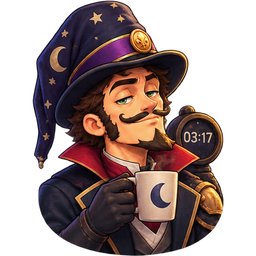
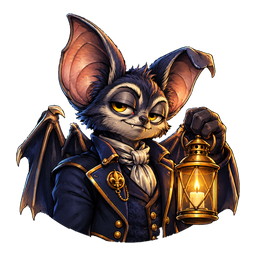
Avatares: retira Lupa, Pipa y Reloj de arena; Pulpo, Carnero y Murciélago sustituyen a tres SirEdwards
Selector de 18 a 15 (8 base + 7 de logro). Los id avatar_siredwards_coleccionista, _imparable y _medianoche
se conservan con arte nuevo (Pulpo Archivero, Carnero de la Racha, Murciélago Noctámbulo). El logro
streak_30 pasa a titularse «Imparable». Nuevo orden de los avatares de logro. Fecha de la entrada 2.3 del
historial: 16/10/2026. CACHE_VERSION 325. Copia del Worker sincronizada (solo cambia el orden).

Claude-Session: https://claude.ai/code/session_0183Zx9L9B2guvX69Av6TVYS

diff --git a/index.html b/index.html
@@ -49,19 +49,19 @@
 <!-- Tipografía: Playfair Display para el "display" institucional (nombre de la
      app / títulos), Inter para toda la interfaz funcional. Alojadas en la propia app
      (styles/fonts.css, assets/fonts/): funcionan sin conexión y no dependen de Google. -->
-<link rel="stylesheet" href="styles/fonts.css?v=323">
+<link rel="stylesheet" href="styles/fonts.css?v=325">
 <link rel="preload" href="assets/fonts/inter-latin.woff" as="font" type="font/woff" crossorigin>
-<link rel="stylesheet" href="styles/main.css?v=323">
+<link rel="stylesheet" href="styles/main.css?v=325">
 <!-- v1.4: estilos de la capa online (cuenta, migración, ranking). Solo clases .seq-* -->
-<link rel="stylesheet" href="styles/online.css?v=323">
-<link rel="stylesheet" href="styles/results-frame.css?v=323">
-<link rel="stylesheet" href="styles/visual-2-3.css?v=323">
-<link rel="stylesheet" href="styles/light-refresh.css?v=323">
-<link rel="stylesheet" href="styles/encargos.css?v=323">
-<link rel="stylesheet" href="styles/encargos-intro.css?v=323">
-<link rel="stylesheet" href="styles/sir-events.css?v=323">
-<link rel="stylesheet" href="styles/theme.css?v=323">
-<link rel="stylesheet" href="styles/privacy.css?v=323">
+<link rel="stylesheet" href="styles/online.css?v=325">
+<link rel="stylesheet" href="styles/results-frame.css?v=325">
+<link rel="stylesheet" href="styles/visual-2-3.css?v=325">
+<link rel="stylesheet" href="styles/light-refresh.css?v=325">
+<link rel="stylesheet" href="styles/encargos.css?v=325">
+<link rel="stylesheet" href="styles/encargos-intro.css?v=325">
+<link rel="stylesheet" href="styles/sir-events.css?v=325">
+<link rel="stylesheet" href="styles/theme.css?v=325">
+<link rel="stylesheet" href="styles/privacy.css?v=325">
 
 </head>
 <body class="on-home">
@@ -1111,7 +1111,7 @@ try {
           <div class="settings-changelog-entry" data-recap="Cálculo en dos velocidades y un aspecto por fin a la altura. Sir Edwards no admite medias tintas.">
             <div class="settings-changelog-entry-header">
               <span class="settings-changelog-entry-version">v2.3</span>
-              <span class="settings-changelog-entry-date">14/10/2026</span>
+              <span class="settings-changelog-entry-date">16/10/2026</span>
             </div>
             <ul class="settings-changelog-list">
               <li>Cálculo mental en dos modos: Turbo, el de siempre, y Fondo, con una sola vida.</li>
@@ -1136,55 +1136,55 @@ try {
 <!-- Fase 2: datos y constantes extraidos a modulos, cargados como scripts
      clasicos (no ES Modules) para conservar el scope global compartido con
      el script principal, sin convertir todavia la app a ES Modules. -->
-<script src="src/data/ui-maps.js?v=323"></script>
-<script src="src/data/questions.js?v=323"></script>
-<script src="src/data/questions-retired.js?v=323"></script>
-<script src="src/data/phrases.js?v=323"></script>
-<script src="src/data/duel-phrases.js?v=323"></script>
-<script src="src/data/lucidez.js?v=323"></script>
-<script src="src/data/medals.js?v=323"></script>
+<script src="src/data/ui-maps.js?v=325"></script>
+<script src="src/data/questions.js?v=325"></script>
+<script src="src/data/questions-retired.js?v=325"></script>
+<script src="src/data/phrases.js?v=325"></script>
+<script src="src/data/duel-phrases.js?v=325"></script>
+<script src="src/data/lucidez.js?v=325"></script>
+<script src="src/data/medals.js?v=325"></script>
 <!-- Prompt 3 — Fase C: sistema de avatares compartido (window.SEQAvatars). Debe
      cargarse antes de src/online/online.js y src/online/duels.js: ambos lo
      consumen en vez de mantener cada uno su propia copia de la lista. -->
-<script src="src/data/avatars.js?v=323"></script>
-<script src="src/share/share-card.js?v=323"></script>
+<script src="src/data/avatars.js?v=325"></script>
+<script src="src/share/share-card.js?v=325"></script>
 
 <!-- Fase 3 (Lote 3A): motor de coincidencia de respuestas extraido a
      src/utils/matching.js, mismo criterio que la Fase 2 (script clasico,
      sin ES Modules todavia). -->
-<script src="src/utils/matching.js?v=323"></script>
-<script src="src/utils/answer-alias.js?v=323"></script>
-<script src="src/utils/lucidez-select.js?v=323"></script>
-<script src="src/state/lucidez-bag.js?v=323"></script>
-<script src="src/state/timetrial-bag.js?v=323"></script>
-<script src="src/utils/encargos-core.js?v=323"></script>
-<script src="src/utils/encargos-progress.js?v=323"></script>
-<script src="src/state/encargos.js?v=323"></script>
-<script src="src/data/encargos-phrases.js?v=323"></script>
-<script src="src/ui/encargos-ui.js?v=323"></script>
-<script src="src/data/named-phrases.js?v=323"></script>
-<script src="src/utils/named-phrases.js?v=323"></script>
-<script src="src/utils/encargos-intro-core.js?v=323"></script>
-<script src="src/data/encargos-intro-phrases.js?v=323"></script>
-<script src="src/ui/encargos-intro.js?v=323"></script>
-<script src="src/data/home-quotes.js?v=323"></script>
-<script src="src/ui/home-quote.js?v=323"></script>
-<script src="src/utils/sir-events.js?v=323"></script>
-<script src="src/ui/sir-events-ui.js?v=323"></script>
-<script src="src/state/sir-events.js?v=323"></script>
-<script src="src/utils/sudden-progression.js?v=323"></script>
-<script src="src/utils/mental-calc.js?v=323"></script>
-<script src="src/utils/mental-classic.js?v=323"></script>
-<script src="src/ui/mental-classic-ui.js?v=323"></script>
-<script src="src/ui/mental-menu.js?v=323"></script>
-<script src="src/ui/level-up.js?v=323"></script>
+<script src="src/utils/matching.js?v=325"></script>
+<script src="src/utils/answer-alias.js?v=325"></script>
+<script src="src/utils/lucidez-select.js?v=325"></script>
+<script src="src/state/lucidez-bag.js?v=325"></script>
+<script src="src/state/timetrial-bag.js?v=325"></script>
+<script src="src/utils/encargos-core.js?v=325"></script>
+<script src="src/utils/encargos-progress.js?v=325"></script>
+<script src="src/state/encargos.js?v=325"></script>
+<script src="src/data/encargos-phrases.js?v=325"></script>
+<script src="src/ui/encargos-ui.js?v=325"></script>
+<script src="src/data/named-phrases.js?v=325"></script>
+<script src="src/utils/named-phrases.js?v=325"></script>
+<script src="src/utils/encargos-intro-core.js?v=325"></script>
+<script src="src/data/encargos-intro-phrases.js?v=325"></script>
+<script src="src/ui/encargos-intro.js?v=325"></script>
+<script src="src/data/home-quotes.js?v=325"></script>
+<script src="src/ui/home-quote.js?v=325"></script>
+<script src="src/utils/sir-events.js?v=325"></script>
+<script src="src/ui/sir-events-ui.js?v=325"></script>
+<script src="src/state/sir-events.js?v=325"></script>
+<script src="src/utils/sudden-progression.js?v=325"></script>
+<script src="src/utils/mental-calc.js?v=325"></script>
+<script src="src/utils/mental-classic.js?v=325"></script>
+<script src="src/ui/mental-classic-ui.js?v=325"></script>
+<script src="src/ui/mental-menu.js?v=325"></script>
+<script src="src/ui/level-up.js?v=325"></script>
 
 <!-- Fase 3 (Lote 3B): nucleo algoritmico de Duelo extraido a
      src/utils/duel.js, mismo criterio que el resto (script clasico, sin
      ES Modules todavia). Las dependencias compartidas con otros modos
      (arrangeStandardBlock, generateLucidezMentalOp)
      permanecen en este script principal, sin moverse en este lote. -->
-<script src="src/utils/duel.js?v=323"></script>
+<script src="src/utils/duel.js?v=325"></script>
 
 <!-- Fase 3 (Lote 3C): defaults, migracion y saneamiento del Store
      extraidos a src/utils/store.js, mismo criterio que el resto (script
@@ -1196,54 +1196,54 @@ try {
      getLevelData) y las 8 funciones de persistencia real (loadStore,
      saveStore, exportProgress...) permanecen en este script principal,
      sin moverse en este lote. -->
-<script src="src/utils/store.js?v=323"></script>
+<script src="src/utils/store.js?v=325"></script>
 
 <!-- Fase 4B: fachada de estado de solo lectura (getStore/getCurrentGame),
      mismo criterio que el resto (script clasico, sin ES Modules todavia).
      No copia, no transforma, no cachea. Ver src/state/read-facade.js. -->
-<script src="src/state/read-facade.js?v=323"></script>
+<script src="src/state/read-facade.js?v=325"></script>
 
-<script src="src/utils/streak-xp.js?v=323"></script>
+<script src="src/utils/streak-xp.js?v=325"></script>
 <!-- Fase 4C: helpers minimos de escritura (pushCapped, resetStreak) para
      eliminar 2 duplicaciones reales concretas -- no un sistema de
      mutaciones. Ver src/state/write-helpers.js y CHANGELOG_FASE4C.md. -->
-<script src="src/state/write-helpers.js?v=323"></script>
+<script src="src/state/write-helpers.js?v=325"></script>
 
 <!-- v1.4: capa online (cuenta Google, sincronización, migración, ranking).
      config.js es PÚBLICO (URL del Worker + Client ID de Google); si está
      vacío, la capa online queda desactivada y la app es idéntica a la v1.3.
      online.js solo usa el store/funciones del juego en tiempo de ejecución. -->
-<script src="src/ui/install-app.js?v=323"></script>
-<script src="src/ui/privacy.js?v=323"></script>
-<script src="src/ui/a11y.js?v=323"></script>
-<script src="src/ui/back-nav.js?v=323"></script>
-<script src="src/ui/game-fx.js?v=323"></script>
-<script src="src/ui/last-life.js?v=323"></script>
-<script src="src/ui/hitos.js?v=323"></script>
-<script src="src/ui/achievements.js?v=323"></script>
-<script src="src/ui/stats-extra.js?v=323"></script>
-<script src="src/ui/name-prompt.js?v=323"></script>
-<script src="src/ui/intro.js?v=323"></script>
-<script src="src/ui/mode-badges.js?v=323"></script>
-<script src="src/ui/lucidez-ui.js?v=323"></script>
-<script src="src/ui/sabias.js?v=323"></script>
-<script src="src/ui/icons.js?v=323"></script>
-<script src="src/online/config.js?v=323"></script>
+<script src="src/ui/install-app.js?v=325"></script>
+<script src="src/ui/privacy.js?v=325"></script>
+<script src="src/ui/a11y.js?v=325"></script>
+<script src="src/ui/back-nav.js?v=325"></script>
+<script src="src/ui/game-fx.js?v=325"></script>
+<script src="src/ui/last-life.js?v=325"></script>
+<script src="src/ui/hitos.js?v=325"></script>
+<script src="src/ui/achievements.js?v=325"></script>
+<script src="src/ui/stats-extra.js?v=325"></script>
+<script src="src/ui/name-prompt.js?v=325"></script>
+<script src="src/ui/intro.js?v=325"></script>
+<script src="src/ui/mode-badges.js?v=325"></script>
+<script src="src/ui/lucidez-ui.js?v=325"></script>
+<script src="src/ui/sabias.js?v=325"></script>
+<script src="src/ui/icons.js?v=325"></script>
+<script src="src/online/config.js?v=325"></script>
 <!-- v2.0: combinación de datos de jugador (mismo código que el servidor) y su sincronización -->
-<script src="src/utils/sync-merge.js?v=323"></script>
-<script src="src/online/data-sync.js?v=323"></script>
-<script src="src/online/online.js?v=323"></script>
+<script src="src/utils/sync-merge.js?v=325"></script>
+<script src="src/online/data-sync.js?v=325"></script>
+<script src="src/online/online.js?v=325"></script>
 <!-- v1.5: Amigos, Duelo online y Retos. El servidor decide preguntas, tiempo, aciertos y ganador. -->
-<script src="src/state/result-heard.js?v=323"></script>
-<script src="src/online/duels.js?v=323"></script>
+<script src="src/state/result-heard.js?v=325"></script>
+<script src="src/online/duels.js?v=325"></script>
 <!-- 2.1: Duelo por apuestas, ELO PvP, Rankings y estadísticas de Duelos (solo presentación; decide el servidor) -->
-<script src="src/online/duels-v21.js?v=323"></script>
+<script src="src/online/duels-v21.js?v=325"></script>
 <!-- 2.3: ficha pública de un jugador (resumen, récords, PvP y solicitud de amistad) -->
-<script src="src/online/player-profile.js?v=323"></script>
-<script src="src/online/inbox.js?v=323"></script>
-<script src="src/online/push.js?v=323"></script>
+<script src="src/online/player-profile.js?v=325"></script>
+<script src="src/online/inbox.js?v=325"></script>
+<script src="src/online/push.js?v=325"></script>
 <!-- Audio: sonidos del juego (src/audio/audio.js) -->
-<script src="src/audio/audio.js?v=323"></script>
+<script src="src/audio/audio.js?v=325"></script>
 
 <script>
 function closeWelcomeModal() {
@@ -7284,6 +7284,6 @@ window.addEventListener('appinstalled', () => {
   hidePwaHint();
 });
 </script>
-<script src="src/ui/resume-clock.js?v=323"></script>
+<script src="src/ui/resume-clock.js?v=325"></script>
 </body>
 </html>

diff --git a/src/data/avatars.js b/src/data/avatars.js
@@ -35,7 +35,9 @@
 
   var ASSET_DIR = 'assets/avatars/';
 
-  // 11 emblemas base (los originales + Gato, Pipa, Caballo, Reloj de arena, Sello de lacre y Gramófono) y 7 de logro (el backend los acepta desde su lista AVATARS).
+  // 8 emblemas base (Sombrero, Compendio, Reloj, Máscara, Gato, Caballo, Sello de lacre y Gramófono) y 7 de logro (el backend los acepta desde su lista AVATARS).
+  // Lupa, Pipa y Reloj de arena se retiraron del selector (nadie los usaba). Sus id siguen siendo válidos en el Worker
+  // (LEGACY_AVATARS de gen-constants.mjs) y, si alguien los tuviera guardados, resolveGlyph() los muestra como Sombrero.
   // Los emblemas base — todos disponibles desde el inicio, sin logros, sin
   // tienda (Nivel 1 del sistema, ver ficha de dirección artística cerrada).
   // "value" es lo que se guarda/envía como avatar del jugador.
@@ -43,23 +45,22 @@
     { id: 'sombrero', value: 'sombrero', short: 'Sombrero', src: ASSET_DIR + 'sombrero.png', label: 'Sombrero de Sir Edwards', base: true },
     { id: 'libro', value: 'libro', short: 'Compendio', src: ASSET_DIR + 'libro.png', label: 'El Compendio', base: true },
     { id: 'reloj', value: 'reloj', short: 'Reloj', src: ASSET_DIR + 'reloj.png', label: 'Reloj de bolsillo', base: true },
-    { id: 'lupa', value: 'lupa', short: 'Lupa', src: ASSET_DIR + 'lupa.png', label: 'Lupa', base: true },
     { id: 'mascara', value: 'mascara', short: 'Máscara', src: ASSET_DIR + 'mascara.png', label: 'Máscara', base: true },
     { id: 'gato', value: 'gato', short: 'Gato', src: ASSET_DIR + 'gato.png', label: 'Gato con chistera', base: true },
-    { id: 'pipa', value: 'pipa', short: 'Pipa', src: ASSET_DIR + 'pipa.png', label: 'Pipa', base: true },
     { id: 'caballo', value: 'caballo', short: 'Caballo', src: ASSET_DIR + 'caballo.png', label: 'Caballo de ajedrez', base: true },
-    { id: 'reloj_arena', value: 'reloj_arena', short: 'Arena', src: ASSET_DIR + 'reloj_arena.png', label: 'Reloj de arena', base: true },
     { id: 'sello', value: 'sello', short: 'Sello', src: ASSET_DIR + 'sello.png', label: 'Sello de lacre', base: true },
     { id: 'gramofono', value: 'gramofono', short: 'Gramófono', src: ASSET_DIR + 'gramofono.png', label: 'Gramófono', base: true },
+    // Los id avatar_siredwards_coleccionista, _imparable y _medianoche se CONSERVAN (están guardados en perfiles y el Worker los valida),
+    // pero su arte es ahora el Pulpo Archivero, el Carnero de la Racha y el Murciélago Noctámbulo: personajes propios en vez de más variantes de Sir Edwards.
     // 2.1: avatares que se GANAN con un logro (`medal` = ID del logro; la recompensa se define en MEDAL_REWARDS, medals.js).
     // El servidor solo deja elegirlos a quien tiene el logro. Cualquiera los VE en el perfil de otro jugador.
-    { id: 'avatar_siredwards_coleccionista', value: 'avatar_siredwards_coleccionista', short: 'Coleccionista', src: ASSET_DIR + 'avatar_siredwards_coleccionista.png', label: 'SirEdwards Coleccionista', base: false, medal: 'medal_collector_30' },
-    { id: 'avatar_siredwards_vengador', value: 'avatar_siredwards_vengador', short: 'Vengador', src: ASSET_DIR + 'avatar_siredwards_vengador.png', label: 'SirEdwards Vengador', base: false, medal: 'duel_revancha' },
-    { id: 'avatar_siredwards_imparable', value: 'avatar_siredwards_imparable', short: 'Imparable', src: ASSET_DIR + 'avatar_siredwards_imparable.png', label: 'SirEdwards Imparable', base: false, medal: 'streak_30' },
-    { id: 'avatar_siredwards_insensato', value: 'avatar_siredwards_insensato', short: 'Insensato', src: ASSET_DIR + 'avatar_siredwards_insensato.png', label: 'SirEdwards Insensato', base: false, medal: 'duel_apuestas_ultima_locura' },
-    { id: 'avatar_siredwards_medianoche', value: 'avatar_siredwards_medianoche', short: 'Medianoche', src: ASSET_DIR + 'avatar_siredwards_medianoche.png', label: 'SirEdwards de Medianoche', base: false, medal: 'noctambulo' },
-    { id: 'avatar_siredwards_supremo', value: 'avatar_siredwards_supremo', short: 'Supremo', src: ASSET_DIR + 'avatar_siredwards_supremo.png', label: 'SirEdwards Supremo', base: false, medal: 'all_medals_secret', secret: true },
+    { id: 'avatar_siredwards_imparable', value: 'avatar_siredwards_imparable', short: 'Carnero', src: ASSET_DIR + 'avatar_siredwards_imparable.png', label: 'El Carnero de la Racha', base: false, medal: 'streak_30' },
+    { id: 'avatar_siredwards_medianoche', value: 'avatar_siredwards_medianoche', short: 'Murciélago', src: ASSET_DIR + 'avatar_siredwards_medianoche.png', label: 'El Murciélago Noctámbulo', base: false, medal: 'noctambulo' },
+    { id: 'avatar_siredwards_coleccionista', value: 'avatar_siredwards_coleccionista', short: 'Pulpo', src: ASSET_DIR + 'avatar_siredwards_coleccionista.png', label: 'El Pulpo Archivero', base: false, medal: 'medal_collector_30' },
     { id: 'buho', value: 'buho', short: 'Búho', src: ASSET_DIR + 'buho.png', label: 'Búho universitario', base: false, medal: 'polimata' },
+    { id: 'avatar_siredwards_vengador', value: 'avatar_siredwards_vengador', short: 'Vengador', src: ASSET_DIR + 'avatar_siredwards_vengador.png', label: 'SirEdwards Vengador', base: false, medal: 'duel_revancha' },
+    { id: 'avatar_siredwards_insensato', value: 'avatar_siredwards_insensato', short: 'Insensato', src: ASSET_DIR + 'avatar_siredwards_insensato.png', label: 'SirEdwards Insensato', base: false, medal: 'duel_apuestas_ultima_locura' },
+    { id: 'avatar_siredwards_supremo', value: 'avatar_siredwards_supremo', short: 'Supremo', src: ASSET_DIR + 'avatar_siredwards_supremo.png', label: 'SirEdwards Supremo', base: false, medal: 'all_medals_secret', secret: true },
   ];
 
   // GLYPHS/DEFAULT_GLYPH conservan su nombre histórico de Fase C (para no

diff --git a/sw.js b/sw.js
@@ -38,7 +38,7 @@
 // styles/main.css, src/data/medals.js, src/utils/store.js y src/online/duels.js (ya en el shell).
 // 2.0 (Prompt 5, tarjeta de compartir): subido de 10 a 11; nuevo src/share/share-card.js
 // (añadido al shell) y cambiaron index.html y src/online/duels.js.
-const CACHE_VERSION = 323;
+const CACHE_VERSION = 325;
 // Dos cachés (ver install/fetch más abajo):
 //  · CACHE_NAME  (versionada): index.html, CSS, JS, manifest e iconos. Es poco y es imprescindible: si no se puede guardar, la
 //    versión nueva no se instala y se queda la anterior.
@@ -429,12 +429,9 @@ const APP_SHELL = [
   './assets/avatars/sombrero.png',
   './assets/avatars/libro.png',
   './assets/avatars/reloj.png',
-  './assets/avatars/lupa.png',
   './assets/avatars/mascara.png',
   './assets/avatars/gato.png',
-  './assets/avatars/pipa.png',
   './assets/avatars/caballo.png',
-  './assets/avatars/reloj_arena.png',
   './assets/avatars/sello.png',
   './assets/avatars/gramofono.png',
   './assets/avatars/buho.png',
@@ -466,10 +463,10 @@ const ASSET_REVS = {
   './assets/audio/secret.mp3': 'fe9a2e00',
   './assets/audio/win.mp3': '3165b8dd',
   './assets/audio/wrong.mp3': '738c1d1c',
-  './assets/avatars/avatar_siredwards_coleccionista.png': 'e673dc90',
-  './assets/avatars/avatar_siredwards_imparable.png': 'fa0e4d0e',
+  './assets/avatars/avatar_siredwards_coleccionista.png': '584b3729',
+  './assets/avatars/avatar_siredwards_imparable.png': '06e74544',
   './assets/avatars/avatar_siredwards_insensato.png': 'e93833f7',
-  './assets/avatars/avatar_siredwards_medianoche.png': '22ff76ca',
+  './assets/avatars/avatar_siredwards_medianoche.png': '1e74df22',
   './assets/avatars/avatar_siredwards_supremo.png': '28ec36fd',
   './assets/avatars/avatar_siredwards_vengador.png': 'bcde96ef',
   './assets/avatars/buho.png': '66608045',
@@ -477,11 +474,8 @@ const ASSET_REVS = {
   './assets/avatars/gato.png': '2197648d',
   './assets/avatars/gramofono.png': 'c0a52977',
   './assets/avatars/libro.png': 'e10102e6',
-  './assets/avatars/lupa.png': '8455a10c',
   './assets/avatars/mascara.png': 'd1b2daef',
-  './assets/avatars/pipa.png': 'b218d2cf',
   './assets/avatars/reloj.png': '090c2ea8',
-  './assets/avatars/reloj_arena.png': 'c6bff30a',
   './assets/avatars/sello.png': 'cde68711',
   './assets/avatars/sombrero.png': 'f0e31e52',
   './assets/cats/arte.webp': '0d91c36e',

diff --git a/src/data/medals.js b/src/data/medals.js
@@ -7,7 +7,7 @@ const ALL_MEDALS = [
   {id:'streak_10', title:'Corriente Imparable', desc:'10 respuestas correctas consecutivas en Modo Estándar.', streak:10, check:s => (s.standardBestStreak || 0) >= 10},
 
   {id:'streak_20', title:'Racha de Élite', desc:'20 respuestas correctas consecutivas en Modo Estándar.', streak:20, check:s => (s.standardBestStreak || 0) >= 20},
-  {id:'streak_30', title:'SirEdwards Imparable', desc:'30 respuestas correctas consecutivas.', streak:30, check:s => (s.bestStreak || 0) >= 30},
+  {id:'streak_30', title:'Imparable', desc:'30 respuestas correctas consecutivas.', streak:30, check:s => (s.bestStreak || 0) >= 30},
 
   // PROGRESIÓN
   { id: 'first_game', title: 'Primeros Pasos', desc: 'Termina tu primera partida.', check: s => s.gamesPlayed >= 1 },
